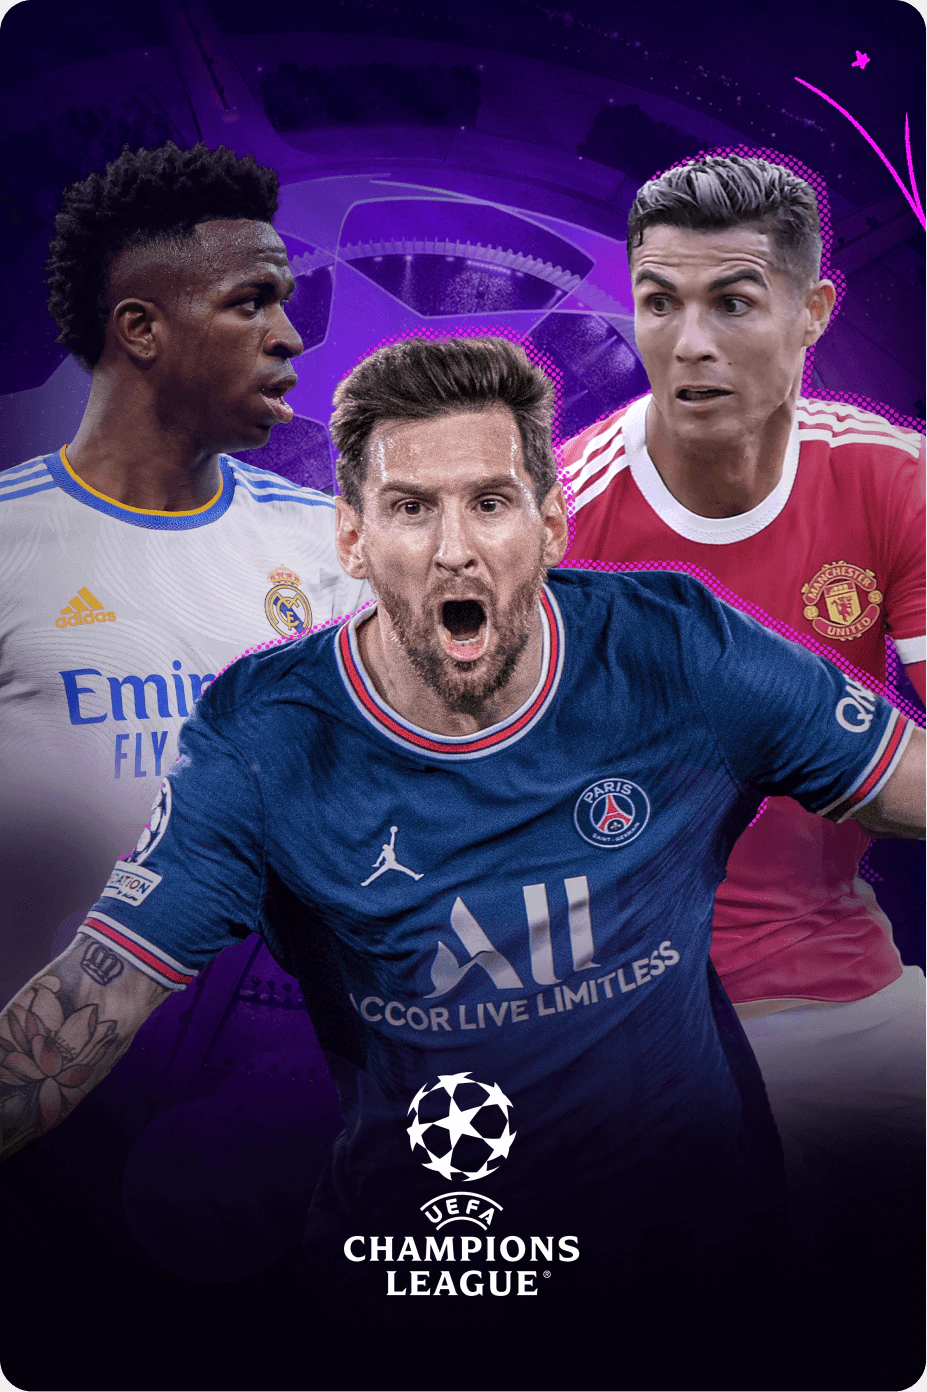
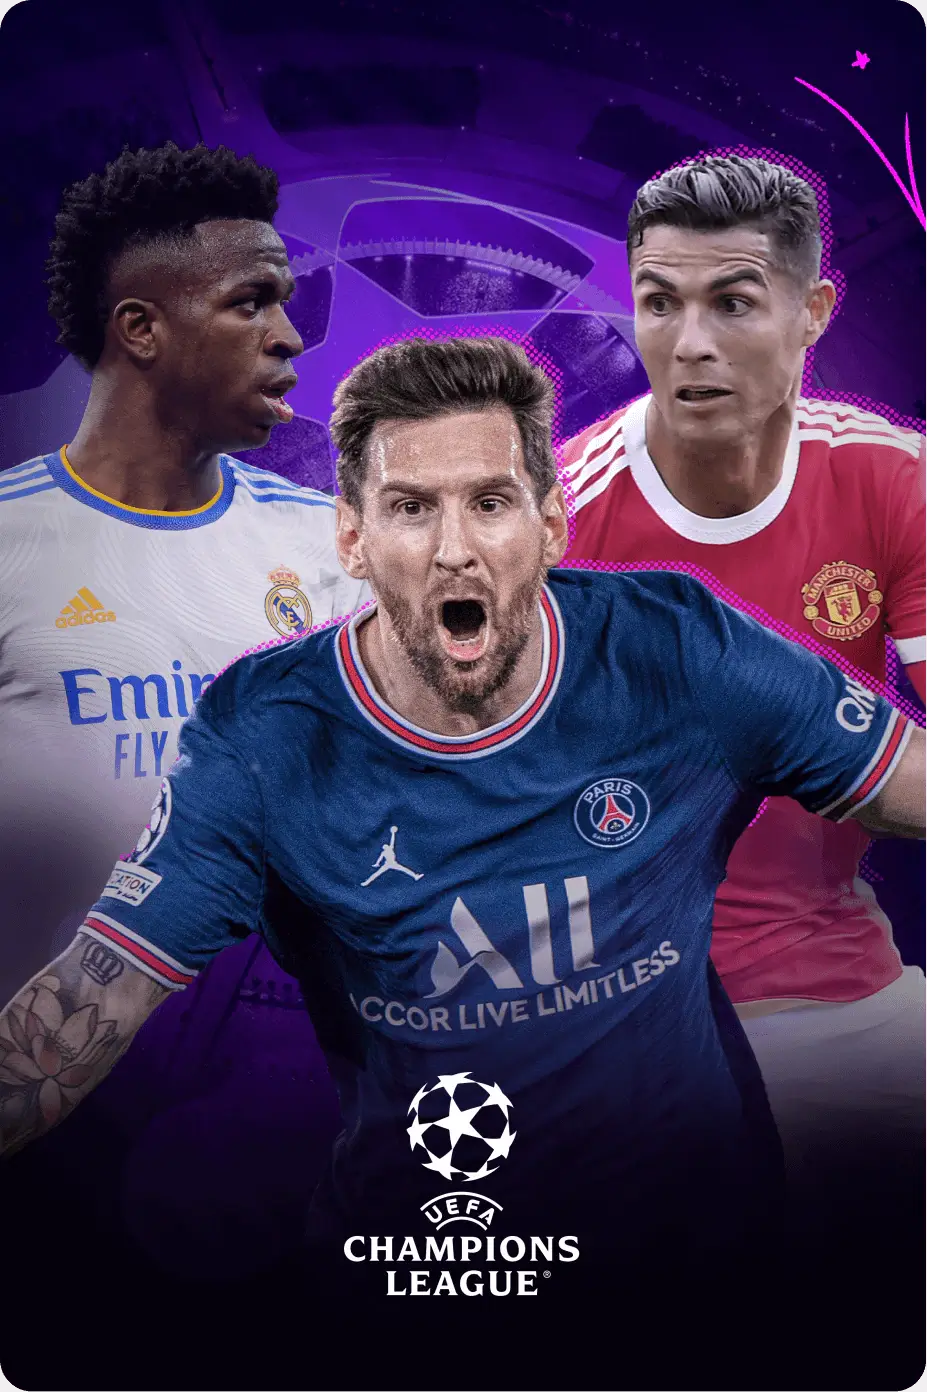
Comprimindo as imagens

diff --git a/index.html b/index.html
@@ -22,7 +22,7 @@
   <!-- NAV -->
   <nav class="menu">
       <a href="index.html" class="menu__logo">
-        <img class="logo-img" src="./assets/images/hbo-logo.png" alt="Logotipo do HBO MAX">
+        <img class="logo-img" src="/assets/images/hbo-logo.svg" alt="Logotipo do HBO MAX">
       </a>
     <div>
       <a href="/SignIn.html" class="menu__item">Entrar</a>
